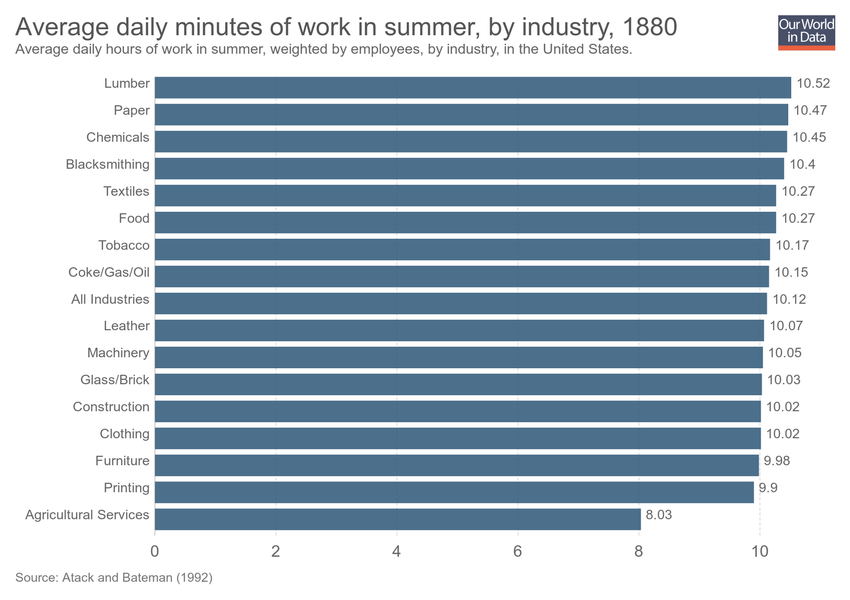
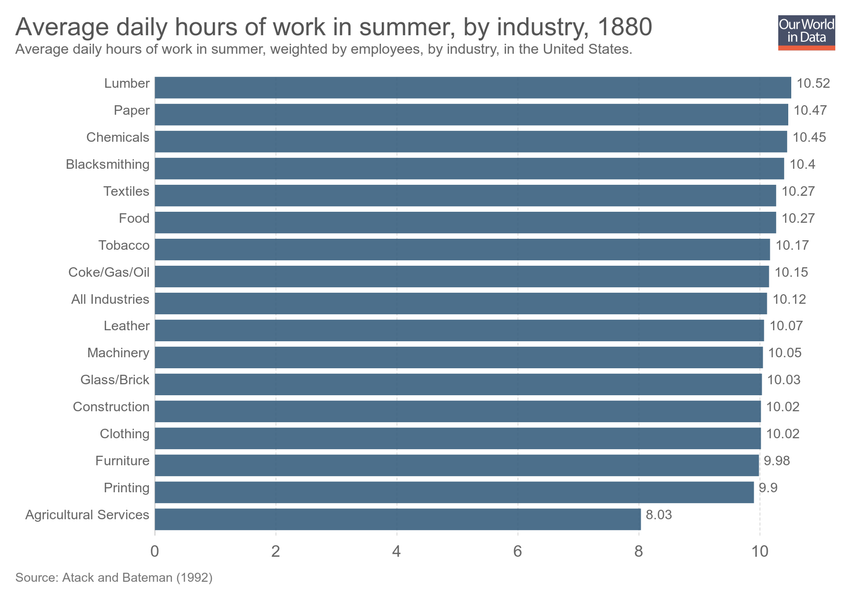
Updating chart average-daily-minutes-of-work-in-summer-by-industry

Changed region(s): [[0.2141, 0.03, 0.7953, 0.06]]

diff --git a/grapher/average-daily-minutes-of-work-in-summer-by-industry.html b/grapher/average-daily-minutes-of-work-in-summer-by-industry.html
@@ -1,4 +1,4 @@
-<!doctype html><html><head><meta name="viewport" content="width=device-width, initial-scale=1" /><title>Average daily minutes of work in summer, by industry - Our World in Data</title><meta name="description" content="Average daily hours of work in summer, weighted by employees, by industry, in the United States." /><link rel="canonical" href="https://ourworldindata.org/grapher/average-daily-minutes-of-work-in-summer-by-industry" /><meta property="fb:app_id" content="1149943818390250" /><meta property="og:url" content="https://ourworldindata.org/grapher/average-daily-minutes-of-work-in-summer-by-industry" /><meta property="og:title" content="Average daily minutes of work in summer, by industry" /><meta property="og:description" content="Average daily hours of work in summer, weighted by employees, by industry, in the United States." /><meta property="og:image" content="https://ourworldindata.org/grapher/exports/average-daily-minutes-of-work-in-summer-by-industry.png?v=1" /><meta property="og:image:width" content="850" /><meta property="og:image:height" content="600" /><meta property="og:site_name" content="Our World in Data" /><meta name="twitter:card" content="summary_large_image" /><meta name="twitter:site" content="@OurWorldInData" /><meta name="twitter:creator" content="@OurWorldInData" /><meta name="twitter:title" content="Average daily minutes of work in summer, by industry" /><meta name="twitter:description" content="Average daily hours of work in summer, weighted by employees, by industry, in the United States." /><meta name="twitter:image" content="https://ourworldindata.org/grapher/exports/average-daily-minutes-of-work-in-summer-by-industry.png?v=1" /><style>
+<!doctype html><html><head><meta name="viewport" content="width=device-width, initial-scale=1" /><title>Average daily hours of work in summer, by industry - Our World in Data</title><meta name="description" content="Average daily hours of work in summer, weighted by employees, by industry, in the United States." /><link rel="canonical" href="https://ourworldindata.org/grapher/average-daily-minutes-of-work-in-summer-by-industry" /><meta property="fb:app_id" content="1149943818390250" /><meta property="og:url" content="https://ourworldindata.org/grapher/average-daily-minutes-of-work-in-summer-by-industry" /><meta property="og:title" content="Average daily hours of work in summer, by industry" /><meta property="og:description" content="Average daily hours of work in summer, weighted by employees, by industry, in the United States." /><meta property="og:image" content="https://ourworldindata.org/grapher/exports/average-daily-minutes-of-work-in-summer-by-industry.png?v=2" /><meta property="og:image:width" content="850" /><meta property="og:image:height" content="600" /><meta property="og:site_name" content="Our World in Data" /><meta name="twitter:card" content="summary_large_image" /><meta name="twitter:site" content="@OurWorldInData" /><meta name="twitter:creator" content="@OurWorldInData" /><meta name="twitter:title" content="Average daily hours of work in summer, by industry" /><meta name="twitter:description" content="Average daily hours of work in summer, weighted by employees, by industry, in the United States." /><meta name="twitter:image" content="https://ourworldindata.org/grapher/exports/average-daily-minutes-of-work-in-summer-by-industry.png?v=2" /><style>
         html, body {
             height: 100%;
             margin: 0;
@@ -20,8 +20,8 @@
         }
     </style><noscript><style>
                     figure { display: none !important; }
-                </style></noscript><link rel="stylesheet" href="https://ourworldindata.org/grapher/assets/commons.bundle.b9f051796dbbbb7e5139.css" /><link rel="preload" href="/grapher/data/variables/97805.json?v=1" as="fetch" crossorigin /></head><body class="singleChart"><figure data-grapher-src="/grapher/average-daily-minutes-of-work-in-summer-by-industry"></figure><noscript id="fallback"><img src="/grapher/exports/average-daily-minutes-of-work-in-summer-by-industry.svg" /><p>Interactive visualization requires JavaScript</p></noscript><script src="https://cdn.polyfill.io/v2/polyfill.min.js?features=es6,fetch"></script><script src="https://ourworldindata.org/grapher/assets/commons.bundle.b9f051796dbbbb7e5139.js"></script><script src="https://ourworldindata.org/grapher/assets/charts.bundle.b9f051796dbbbb7e5139.js"></script><script>
-        var jsonConfig = {"map":{"projection":"World","colorSchemeLabels":[],"colorSchemeValues":[],"customNumericColors":[],"customCategoryColors":{},"customCategoryLabels":{},"customHiddenCategories":{}},"tab":"chart","slug":"average-daily-minutes-of-work-in-summer-by-industry","type":"DiscreteBar","title":"Average daily minutes of work in summer, by industry","xAxis":{"scaleType":"linear"},"yAxis":{"min":0,"scaleType":"linear"},"version":1,"subtitle":"Average daily hours of work in summer, weighted by employees, by industry, in the United States.","hasMapTab":false,"stackMode":"absolute","dimensions":[{"display":{"conversionFactor":0.0166666667},"property":"y","variableId":97805}],"entityType":"industry","isAutoSlug":true,"hasChartTab":true,"isPublished":true,"selectedData":[{"index":0,"entityId":37879},{"index":0,"entityId":37878},{"index":0,"entityId":37886},{"index":0,"entityId":37882},{"index":0,"entityId":37232},{"index":0,"entityId":29015},{"index":0,"entityId":37881},{"index":0,"entityId":37883},{"index":0,"entityId":18949},{"index":0,"entityId":37244},{"index":0,"entityId":37877},{"index":0,"entityId":37887},{"index":0,"entityId":37875},{"index":0,"entityId":37876},{"index":0,"entityId":37236},{"index":0,"entityId":29025},{"index":0,"entityId":37231}],"addCountryMode":"add-country","id":2955};
+                </style></noscript><link rel="stylesheet" href="https://ourworldindata.org/grapher/assets/commons.bundle.b9f051796dbbbb7e5139.css" /><link rel="preload" href="/grapher/data/variables/97805.json?v=2" as="fetch" crossorigin /></head><body class="singleChart"><figure data-grapher-src="/grapher/average-daily-minutes-of-work-in-summer-by-industry"></figure><noscript id="fallback"><img src="/grapher/exports/average-daily-minutes-of-work-in-summer-by-industry.svg" /><p>Interactive visualization requires JavaScript</p></noscript><script src="https://cdn.polyfill.io/v2/polyfill.min.js?features=es6,fetch"></script><script src="https://ourworldindata.org/grapher/assets/commons.bundle.b9f051796dbbbb7e5139.js"></script><script src="https://ourworldindata.org/grapher/assets/charts.bundle.b9f051796dbbbb7e5139.js"></script><script>
+        var jsonConfig = {"id":2955,"map":{"projection":"World","colorSchemeLabels":[],"colorSchemeValues":[],"customNumericColors":[],"customCategoryColors":{},"customCategoryLabels":{},"customHiddenCategories":{}},"tab":"chart","slug":"average-daily-minutes-of-work-in-summer-by-industry","type":"DiscreteBar","title":"Average daily hours of work in summer, by industry","xAxis":{"scaleType":"linear"},"yAxis":{"min":0,"scaleType":"linear"},"version":2,"subtitle":"Average daily hours of work in summer, weighted by employees, by industry, in the United States.","hasMapTab":false,"stackMode":"absolute","dimensions":[{"display":{"conversionFactor":0.0166666667},"property":"y","variableId":97805}],"entityType":"industry","hasChartTab":true,"isPublished":true,"selectedData":[{"index":0,"entityId":37879},{"index":0,"entityId":37878},{"index":0,"entityId":37886},{"index":0,"entityId":37882},{"index":0,"entityId":37232},{"index":0,"entityId":29015},{"index":0,"entityId":37881},{"index":0,"entityId":37883},{"index":0,"entityId":18949},{"index":0,"entityId":37244},{"index":0,"entityId":37877},{"index":0,"entityId":37887},{"index":0,"entityId":37875},{"index":0,"entityId":37876},{"index":0,"entityId":37236},{"index":0,"entityId":29025},{"index":0,"entityId":37231}],"addCountryMode":"add-country"};
         var figure = document.getElementsByTagName("figure")[0];
         try {
             window.App = {};
